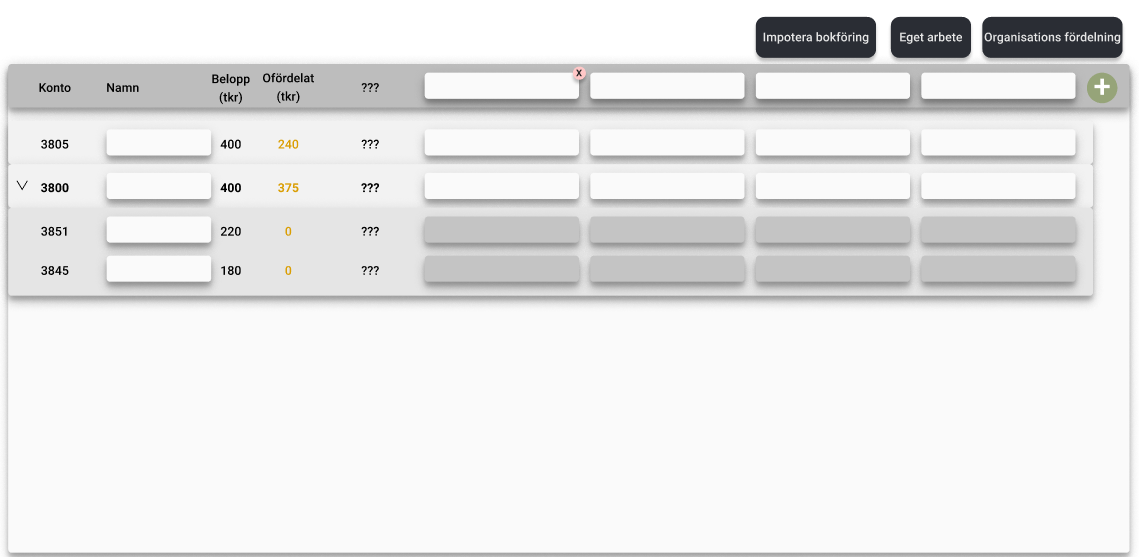
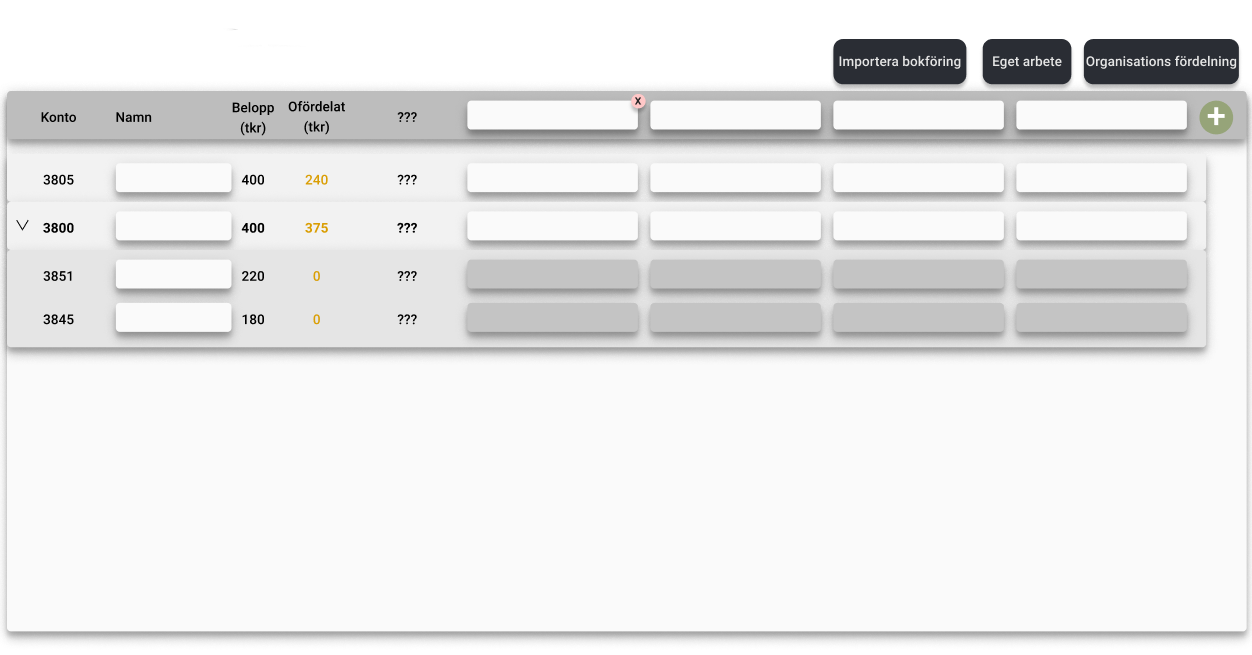
change to main

diff --git a/src/features/mjolk.js b/src/features/mjolk.js
@@ -3,41 +3,41 @@
 export const lmjolk = [[
     {   id: 0, konto: 3160, name: "Mjölk", belopp: 6786  },
     {   id: 1, konto: 3080, name: "EU-Stöd", belopp: 1065  },
-    {   id: 2, konto: 3130, name: "Slakt", belopp: 574  },
+    {   id: 2, konto: 3130, name: "Slakt djur", belopp: 574  },
     {   id: 3, konto: 3121, name: "Livkalv", belopp: 293  },
     {   id: 4, konto: 3453, name: "Spån", belopp: 27  },
 ],[
     {   id: 0, konto: 3160, name: "Mjölk", belopp: 6786  },
     {   id: 1, konto: 3080, name: "EU-Stöd", belopp: 1065  },
-    {   id: 2, konto: 3130, name: "Slakt", belopp: 574  },
+    {   id: 2, konto: 3130, name: "Slakt djur", belopp: 574  },
     {   id: 3, konto: 3121, name: "Livkalv", belopp: 295  },
     {   id: 4, konto: 3453, name: "Spån", belopp: 20  },
 ], [
     {   id: 0, konto: 3160, name: "Mjölk", belopp: 6786  },
     {   id: 1, konto: 3080, name: "EU-Stöd", belopp: 1065  },
-    {   id: 2, konto: 3130, name: "Slakt", belopp: 574  },
+    {   id: 2, konto: 3130, name: "Slakt djur", belopp: 574  },
     {   id: 3, konto: 3121, name: "Livkalv", belopp: 293  },
     {   id: 4, konto: 3453, name: "Spån", belopp: 25  },
 ]];
 //smallest
 export const smjolk = [[
-    {   id: 0, konto: 4132, name: "Koncentrat & fodersäd", belopp: 2030  },
-    {   id: 1, konto: 4199, name: "Grovfoder", belopp: 1357  },
-    {   id: 2, konto: "7***", name: "Löner", belopp: 750  },
-    {   id: 3, konto: 4169, name: "Avbrytare", belopp: 537  },
-    {   id: 4, konto: 7099, name: "Eget arbete", belopp: 450  },
+    {   id: 0, konto: 4132, name: "Koncentrat & fodersäd", belopp: -2030  },
+    {   id: 1, konto: 4199, name: "Grovfoder", belopp: -1357  },
+    {   id: 2, konto: "7***", name: "Löner", belopp: -750  },
+    {   id: 3, konto: 4169, name: "Avbrytare", belopp: -537  },
+    {   id: 4, konto: 7099, name: "Eget arbete", belopp: -450  },
 ],[
-    {   id: 0, konto: 4132, name: "Koncentrat & fodersäd", belopp: 2030  },
-    {   id: 1, konto: 4199, name: "Grovfoder", belopp: 1354  },
-    {   id: 2, konto: "7***", name: "Löner", belopp: 750  },
-    {   id: 3, konto: 4169, name: "Avbrytare", belopp: 537  },
-    {   id: 4, konto: 7099, name: "Eget arbete", belopp: 457  },
+    {   id: 0, konto: 4132, name: "Koncentrat & fodersäd", belopp: -2030  },
+    {   id: 1, konto: 4199, name: "Grovfoder", belopp: -1354  },
+    {   id: 2, konto: "7***", name: "Löner", belopp: -750  },
+    {   id: 3, konto: 4169, name: "Avbrytare", belopp: -537  },
+    {   id: 4, konto: 7099, name: "Eget arbete", belopp: -457  },
 ], [
-    {   id: 0, konto: 4132, name: "Koncentrat & fodersäd", belopp: 2023  },
-    {   id: 1, konto: 4199, name: "Grovfoder", belopp: 1357  },
-    {   id: 2, konto: "7***", name: "Löner", belopp: 754  },
-    {   id: 3, konto: 4169, name: "Avbrytare", belopp: 537  },
-    {   id: 4, konto: 7099, name: "Eget arbete", belopp: 454 },
+    {   id: 0, konto: 4132, name: "Koncentrat & fodersäd", belopp: -2023  },
+    {   id: 1, konto: 4199, name: "Grovfoder", belopp: -1357  },
+    {   id: 2, konto: "7***", name: "Löner", belopp: -754  },
+    {   id: 3, konto: 4169, name: "Avbrytare", belopp: -537  },
+    {   id: 4, konto: 7099, name: "Eget arbete", belopp: -454 },
 ]];
 //Mjölk olika år 
 

diff --git a/src/views/sus.js b/src/views/sus.js
@@ -1,0 +1,32 @@
+import React from "react";
+import bild from '../likertskala.PNG';
+
+function SUS() {
+    return (<div className="root">
+        <h1>SUS</h1>
+          <p>1. Jag tror att jag skulle vilja använda det här verktyget.</p>
+          <img src={bild} alt="likertskala mellan 1-5" style={{width: "50%"}}></img>
+          <p>2. Jag tycker att verktyget var onödigt komplext.</p>
+          <img src={bild} alt="likertskala mellan 1-5" style={{width: "50%"}}></img>
+          <p>3. Jag tycker att verktyget var lätt att använda.</p>
+          <img src={bild} alt="likertskala mellan 1-5" style={{width: "50%"}}></img>
+          <p>4. Jag tror att jag skulle behöva hjälp av en teknisk person för att kunna använda det här verktyget.</p>
+          <img src={bild} alt="likertskala mellan 1-5" style={{width: "50%"}}></img>
+          <p>5. Jag tycker att de olika funktionerna i det här verktyget var välintegrerade.</p>
+          <img src={bild} alt="likertskala mellan 1-5" style={{width: "50%"}}></img>
+          <p>6. Jag tycker att det varför mycket som var inkonsekvent i det här verktyget.</p>
+          <img src={bild} alt="likertskala mellan 1-5" style={{width: "50%"}}></img>
+          <p>7. Jag skulle föreställa mig att de flesta skulle lära sig det här verktyget väldigt fort.</p>
+          <img src={bild} alt="likertskala mellan 1-5" style={{width: "50%"}}></img>
+          <p>8. Jag tycker att verktyget var väldigt besvärligt att använda.</p>
+          <img src={bild} alt="likertskala mellan 1-5" style={{width: "50%"}}></img>
+          <p>9. Jag känner mig mycket säker på att använda verktyget.</p>
+          <img src={bild} alt="likertskala mellan 1-5" style={{width: "50%"}}></img>
+          <p>10. Jag behövde lära mig många saker innan jag kunde komma igång med det här verktyget.</p>
+          <img src={bild} alt="likertskala mellan 1-5" style={{width: "50%"}}></img>
+         
+      </div>
+    );
+  }
+  
+  export default SUS;

diff --git a/src/features/maskin.js b/src/features/maskin.js
@@ -1,12 +1,12 @@
 //biggest
 export const lmaskin = [[
-    {   id: 0, konto: 3999, name: "Intern sålt", belopp: 1431  },
+    {   id: 0, konto: 3999, name: "Internt sålt", belopp: 1431  },
     {   id: 1, konto: 3621, name: "Körslor", belopp: 879  },
 ],[
-    {   id: 0, konto: 3999, name: "Intern sålt", belopp: 1431  },
+    {   id: 0, konto: 3999, name: "Internt sålt", belopp: 1431  },
     {   id: 1, konto: 3621, name: "Körslor", belopp: 879  },
 ], [
-    {   id: 0, konto: 3999, name: "Intern sålt", belopp: 1431  },
+    {   id: 0, konto: 3999, name: "Internt sålt", belopp: 1431  },
     {   id: 1, konto: 3621, name: "Körslor", belopp: 879  },
 ]];
 //smallest
@@ -15,19 +15,19 @@ export const smaskin = [[
     {   id: 1, konto: 7832, name: "Avskrivningar", belopp: -570  },
     {   id: 2, konto: 5630, name: "Drivmedel & oljor", belopp: -418  },
     {   id: 3, konto: 4062, name: "Körslor", belopp: -157  },
-    {   id: 4, konto: 4069, name: "Inhyrda arbetskraft", belopp: -152  },
+    {   id: 4, konto: 4069, name: "Inhyrd arbetskraft", belopp: -152  },
 ],[
     {   id: 0, konto: 5500, name: "Underhåll", belopp: -616  },
     {   id: 1, konto: 7832, name: "Avskrivningar", belopp: -570  },
     {   id: 2, konto: 5630, name: "Drivmedel & oljor", belopp: -418  },
     {   id: 3, konto: 4062, name: "Körslor", belopp: -157  },
-    {   id: 4, konto: 4069, name: "Inhyrda arbetskraft", belopp: -152  },
+    {   id: 4, konto: 4069, name: "Inhyrd arbetskraft", belopp: -152  },
 ], [
     {   id: 0, konto: 5500, name: "Underhåll", belopp: -616  },
     {   id: 1, konto: 7832, name: "Avskrivningar", belopp: -570  },
     {   id: 2, konto: 5630, name: "Drivmedel & oljor", belopp: -418  },
     {   id: 3, konto: 4062, name: "Körslor", belopp: -157  },
-    {   id: 4, konto: 4069, name: "Inhyrda arbetskraft", belopp: -152  },
+    {   id: 4, konto: 4069, name: "Inhyrd arbetskraft", belopp: -152  },
 ]];
 //Maskin olika år 
 

diff --git a/src/components/diagrams/linegraph.js b/src/components/diagrams/linegraph.js
@@ -52,7 +52,7 @@ d3.select(".linegrid")
   // Define the div for the tooltip
   var div = d3.select("#lineToltip")
       .attr("class", "tooltip")				
-      .style("opacity", 0);
+      .style("visibility", "collapse");
   
   // color palette = one color per subgroup
   var color = d3.scaleOrdinal()
@@ -130,11 +130,11 @@ d3.select(".lineplot-area")
       //Change tooltip
       div.transition()		
           .duration(200)		
-          .style("opacity",1);	
+          .style("visibility", "visible");	
       div.html("<b>" + d3.select(this).attr("color")+"</b><br>"+
           "År: " + d3.select(this).attr("ar")+ "<br>"+
           " Värde: " + d3.select(this).attr("value"))	
-          .style("left", (d3.select(this).attr("cx") +"px"))
+          .style("left", (d3.select(this).attr("cx")-10 +"px"))
           .style("top", (d3.select(this).attr("cy") + "px"));	  
     })					
     .on("mouseout", function(d) { 
@@ -142,7 +142,7 @@ d3.select(".lineplot-area")
         div
           .transition()		
           .duration(500)		
-          .style("opacity", 0);
+          .style("visibility", "collapse");
         //change color 
         d3.select(this).style("fill", color((d3.select(this).attr("color"))));
     });

diff --git a/src/features/vaxt.js b/src/features/vaxt.js
@@ -12,19 +12,19 @@ export const lvaxt = [[
 ]];
 //smallest
 export const svaxt = [[
-    { id: 0,  konto: 4099, name: "Marsiker internt", belopp: -1181  },
+    { id: 0,  konto: 4099, name: "Maskiner internt", belopp: -1181  },
     { id: 1,  konto: "7***", name: "Löner", belopp: -806  },
     { id: 2,  konto: 4022, name: "Gödsel", belopp: -373  },
     { id: 3,  konto: 4098, name: "Utsäde", belopp: -98  },
     { id: 4,  konto: 5110, name: "Arrende", belopp:  -80  },
 ],[
-    { id: 0,  konto: 4099, name: "Marsiker internt", belopp: -1181  },
+    { id: 0,  konto: 4099, name: "Maskiner internt", belopp: -1181  },
     { id: 1,  konto: "7***", name: "Löner", belopp: -806  },
     { id: 2,  konto: 4022, name: "Gödsel", belopp: -373  },
     { id: 3,  konto: 4098, name: "Utsäde", belopp: -98  },
     { id: 4,  konto: 5110, name: "Arrende", belopp:  -80  },
 ], [
-    { id: 0,  konto: 4099, name: "Marsiker internt", belopp: -1181  },
+    { id: 0,  konto: 4099, name: "Maskiner internt", belopp: -1181  },
     { id: 1,  konto: "7***", name: "Löner", belopp: -806  },
     { id: 2,  konto: 4022, name: "Gödsel", belopp: -373  },
     { id: 3,  konto: 4098, name: "Utsäde", belopp: -98  },

diff --git a/src/routes.js b/src/routes.js
@@ -5,6 +5,7 @@ import { BrowserRouter as Router, Switch, Route } from 'react-router-dom';
 //import MenuBar from './components/menu/menu';
 import CustumerRegistration  from "./views/custumerRegistration";
 import Productdivider  from "./views/productDivider";
+import SUS  from "./views/sus";
 import Result  from "./views/result";
 import Menu  from "./components/menu/menu";
 import Border  from "./components/user/border";
@@ -18,7 +19,7 @@ const Routes = () => {
    	return (
         <YearContext.Provider value={[year, setYear]}>	
         <UserContext.Provider value={[user, setUser]}>	
-            <Router>
+            <Router basename={'/exjobb'}>
                 <Menu/>
                 <Border/>
                 <Suspense fallback={<div>Loading...</div>}>
@@ -28,6 +29,7 @@ const Routes = () => {
                         <Route path="/productdivider" component={Productdivider}/>
                         <Route path="/import" component={ImportPopup}/>
                         <Route path="/result" component={Result}/>
+                        <Route path="/sus" component={SUS}/>
                     </Switch>
                 </Suspense>
             </Router>

diff --git a/src/features/custumer.js b/src/features/custumer.js
@@ -10,23 +10,23 @@ export const custumers = [
   {
     name: "Stora Gård",
     id: 0,
-    company: "Hagebergs AB",
+    company: "Hagebergs",
     mail: "info@ha.se",
-    adress: "lila edet 3",
+    adress: "Stora gård 3",
     phoneNumber:"0732818282",},
   {
-    name: "Lila Gård",
+    name: "Lilla Gård",
     id: 1,
-    company: "SDF AB",
-    mail: "info@sdf.com",
-    adress: "lila gärdet",
+    company: "Lilla gärdet",
+    mail: "info@lillagarden.com",
+    adress: "Lilla gärdet 8",
     phoneNumber:"0784383478",},
   {
     name: "Fagerslätt östergård",
     id: 2,
-    company: "Folkesons AB",
-    mail: "info@folkesons.se",
-    adress: "Rättviksgatan 34",
+    company: "Johanssons gård",
+    mail: "info@johanssons.se",
+    adress: "Fagerslätt östergård 8",
     phoneNumber:"0705030306",}
 ];
 export const UserContext = React.createContext();

diff --git a/src/components/diagrams/TextRank.js b/src/components/diagrams/TextRank.js
@@ -15,19 +15,19 @@ function helpfunc(){
     enhet: result.enhet,
     duration: result.duration,
     popupVisible: true,
-    title: "5 Största Inkomster och kostnader",
+    title: "5 Största Inkomster och utgifterna",
   })
 }
 return (
     <div className="card" id="Textrank">
-        5 största Inkomsterna
+        {arrayI.length} största inkomsterna
         <div className="rightcorner">
           <IconButton  id="barhelp" aria-label="Filter" onClick={helpfunc} >
             <HelpIcon style={{fontSize: "small"}}   />
           </IconButton>
         </div>
         <Table array={arrayI} total={totalIntakt} good={true} />   
-        5 största Utgifterna
+        {arrayU.length} största utgifterna
         <Table array={arrayU} total={totalUtgift} good={false} />   
     </div>
   );

diff --git a/src/components/diagrams/cirkeldiagram.js b/src/components/diagrams/cirkeldiagram.js
@@ -47,7 +47,7 @@ var div = d3.select("#cirkelToltip")
 // set the color scale
 var color = d3.scaleOrdinal()
   .domain(data)
-  .range(["#fcbba1", "#fc9272", "#fb6a4a", "#de2d26", "#a50f15"])
+  .range(["#fcbba1", "#fc9272", "#fb6a4a", "#ef3b2c", "#cb181d", "#99000d" ])
 
 // Compute the position of each group on the pie:
 var pie = d3.pie()
@@ -116,9 +116,10 @@ d3.select(".cirkelplot-area")
 
 
     const mitttext = [
-      { name:"Direkta",       hi: 0   },
-      { name:"Indirekta1",    hi: 15  },
-      { name:"Indirekta2",    hi: 30  },
+      { name:"Direkta",       hi: -15 },
+      { name:"Indirekta1",    hi: 0   },
+      { name:"Indirekta2",    hi: 15  },
+      { name:"Arbete",        hi: 30  },
       { name:"Avskrivningar", hi: 45  },
       { name:"Finansiella",   hi: 60  },
     ]

diff --git a/src/views/result.js b/src/views/result.js
@@ -86,7 +86,7 @@ const line =[
           </div>
           <div className='row' style={{height:"500px"}}>
           <Textrank totalIntakt={totalIntakt} totalUtgift={totalUtgift} arrayI={arrayI} arrayU={arrayU} />
-          <CirkelCard vinst={totalIntakt-totalUtgift}  totalIntakt={totalIntakt} array={array} title={("Utgifts uppdelning på gren: "+ driftsgrenarnamn[page])}/>
+          <CirkelCard vinst={totalIntakt-totalUtgift}  totalIntakt={totalIntakt} array={array} title={("Utgiftsuppdelning på driftsgren: "+ driftsgrenarnamn[page])}/>
           <BulletCard array={nyckeltal[page]}/> 
         </div>
       </div>

diff --git a/src/components/diagrams/multibar.js b/src/components/diagrams/multibar.js
@@ -124,7 +124,7 @@ d3.select(".plot-area")
             .style("opacity", .9);	
         div.html("<b>"+d3.select(this.parentNode).attr("gren") + "</b><br/>"+
           (d3.select(this).attr("name") === "utgift" ? "Utgift" : "Inkomst" )
-              + " : " + d3.select(this).attr("value")+ result.enhet)	
+              + ": " + d3.select(this).attr("value")+ result.enhet)	
             .style("left", (53 + Number(d3.select(this).attr("x"))
                   + Number(d3.select(this.parentNode).attr("x2"))) +"px")		
             .style("top",  d3.select(this).attr("y") + "px");	

diff --git a/src/components/import/importPopup.js b/src/components/import/importPopup.js
@@ -15,8 +15,8 @@ function ImportPopup(props) {
     }
     return (
       <div className="popup" style={{height: "fit-content"}}>
-        <h1>Impotera bokföring</h1>
-        Du kan välja att impotera data från antingen en SIE-fil eller Excel. 
+        <h1>Importera bokföring</h1>
+        Du kan välja att importera data från antingen en SIE-fil eller Excel. 
         <div id="text1">
             <b > Ange bokföringsår:  </b>
             <Select  native
